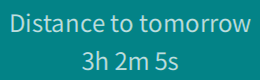
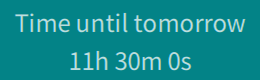
refactor(widget): inline countdown settings dialog, drop Action wrapper

Changed region(s): [[0.0308, 0.15, 0.9846, 0.425], [0.4308, 0.65, 0.7385, 0.9], [0.2462, 0.65, 0.3692, 0.875]]

diff --git a/translations/countdown/ru.ts b/translations/countdown/ru.ts
@@ -4,7 +4,7 @@
 <context>
     <name>CountdownWidget</name>
     <message><source>Countdown</source><translation>Обратный отсчёт</translation></message>
-    <message><source>Settings</source><translation>Настройки</translation></message>
+    <message><source>Settings...</source><translation>Настройки...</translation></message>
     <message><source>Time until target</source><translation>Время до цели</translation></message>
     <message><source>Not set</source><translation>Не задано</translation></message>
     <message><source>Time's up!</source><translation>Время вышло!</translation></message>
@@ -14,29 +14,25 @@
     <message><source>s</source><translation>с</translation></message>
 </context>
 <context>
-    <name>CountdownAction</name>
-    <message><source>Settings</source><translation>Настройки</translation></message>
-</context>
-<context>
     <name>CountdownSettings</name>
     <message><source>Countdown Settings</source><translation>Настройки обратного отсчёта</translation></message>
     <message><source>Profile</source><translation>Профиль</translation></message>
     <message><source>Profile Name</source><translation>Имя профиля</translation></message>
     <message><source>New Profile %1</source><translation>Новый профиль %1</translation></message>
-    <message><source>(No valid profile)</source><translation>(Нет действительного профиля)</translation></message>
+    <message><source>(No valid profile)</source><translation>(Нет допустимого профиля)</translation></message>
     <message><source> (unsaved)</source><translation> (не сохранено)</translation></message>
     <message><source>Font</source><translation>Шрифт</translation></message>
-    <message><source>Font Weight</source><translation>Насыщенность</translation></message>
+    <message><source>Font Weight</source><translation>Насыщенность шрифта</translation></message>
     <message><source>Line Height</source><translation>Высота строки</translation></message>
     <message><source>Enable Outline</source><translation>Включить обводку</translation></message>
-    <message><source>Type to search fonts...</source><translation>Введите для поиска шрифтов...</translation></message>
+    <message><source>Type to search fonts...</source><translation>Начните вводить для поиска шрифтов...</translation></message>
     <message><source>Countdown Title</source><translation>Заголовок обратного отсчёта</translation></message>
     <message><source>Enter a title</source><translation>Введите заголовок</translation></message>
     <message><source>Target Date (Y-M-D)</source><translation>Целевая дата (Г-М-Д)</translation></message>
     <message><source>Target Time (H:M)</source><translation>Целевое время (Ч:М)</translation></message>
     <message><source>Title</source><translation>Заголовок</translation></message>
     <message><source>Countdown</source><translation>Обратный отсчёт</translation></message>
-    <message><source>Apply Current</source><translation>Применить текущий</translation></message>
+    <message><source>Apply Current</source><translation>Применить текущий профиль</translation></message>
     <message><source>Save All</source><translation>Сохранить все</translation></message>
     <message><source>Apply &amp;&amp; Close</source><translation>Применить и закрыть</translation></message>
     <message><source>Settings saved.</source><translation>Настройки сохранены.</translation></message>

diff --git a/translations/countdown/ja.ts b/translations/countdown/ja.ts
@@ -4,18 +4,14 @@
 <context>
     <name>CountdownWidget</name>
     <message><source>Countdown</source><translation>カウントダウン</translation></message>
-    <message><source>Settings</source><translation>設定</translation></message>
-    <message><source>Time until target</source><translation>目標まで</translation></message>
+    <message><source>Settings...</source><translation>設定...</translation></message>
+    <message><source>Time until target</source><translation>目標までの時間</translation></message>
     <message><source>Not set</source><translation>未設定</translation></message>
-    <message><source>Time's up!</source><translation>時間です！</translation></message>
+    <message><source>Time's up!</source><translation>時間切れ！</translation></message>
     <message><source>d</source><translation>日</translation></message>
     <message><source>h</source><translation>時間</translation></message>
     <message><source>m</source><translation>分</translation></message>
     <message><source>s</source><translation>秒</translation></message>
-</context>
-<context>
-    <name>CountdownAction</name>
-    <message><source>Settings</source><translation>設定</translation></message>
 </context>
 <context>
     <name>CountdownSettings</name>
@@ -26,20 +22,20 @@
     <message><source>(No valid profile)</source><translation>（有効なプロファイルなし）</translation></message>
     <message><source> (unsaved)</source><translation>（未保存）</translation></message>
     <message><source>Font</source><translation>フォント</translation></message>
-    <message><source>Font Weight</source><translation>ウェイト</translation></message>
+    <message><source>Font Weight</source><translation>フォントの太さ</translation></message>
     <message><source>Line Height</source><translation>行の高さ</translation></message>
-    <message><source>Enable Outline</source><translation>輪郭を有効化</translation></message>
-    <message><source>Type to search fonts...</source><translation>入力して検索...</translation></message>
+    <message><source>Enable Outline</source><translation>アウトラインを有効化</translation></message>
+    <message><source>Type to search fonts...</source><translation>入力してフォントを検索...</translation></message>
     <message><source>Countdown Title</source><translation>カウントダウンタイトル</translation></message>
     <message><source>Enter a title</source><translation>タイトルを入力</translation></message>
     <message><source>Target Date (Y-M-D)</source><translation>目標日付（年-月-日）</translation></message>
     <message><source>Target Time (H:M)</source><translation>目標時刻（時:分）</translation></message>
     <message><source>Title</source><translation>タイトル</translation></message>
     <message><source>Countdown</source><translation>カウントダウン</translation></message>
-    <message><source>Apply Current</source><translation>現在に適用</translation></message>
+    <message><source>Apply Current</source><translation>現在のプロファイルを適用</translation></message>
     <message><source>Save All</source><translation>すべて保存</translation></message>
     <message><source>Apply &amp;&amp; Close</source><translation>適用して閉じる</translation></message>
     <message><source>Settings saved.</source><translation>設定を保存しました。</translation></message>
-    <message><source>Time until tomorrow</source><translation>明日まで</translation></message>
+    <message><source>Time until tomorrow</source><translation>明日までの時間</translation></message>
 </context>
 </TS>

diff --git a/translations/countdown/tr.ts b/translations/countdown/tr.ts
@@ -4,7 +4,7 @@
 <context>
     <name>CountdownWidget</name>
     <message><source>Countdown</source><translation>Geri sayım</translation></message>
-    <message><source>Settings</source><translation>Ayarlar</translation></message>
+    <message><source>Settings...</source><translation>Ayarlar...</translation></message>
     <message><source>Time until target</source><translation>Hedefe kalan süre</translation></message>
     <message><source>Not set</source><translation>Ayarlanmadı</translation></message>
     <message><source>Time's up!</source><translation>Süre doldu!</translation></message>
@@ -12,10 +12,6 @@
     <message><source>h</source><translation>sa</translation></message>
     <message><source>m</source><translation>dk</translation></message>
     <message><source>s</source><translation>sn</translation></message>
-</context>
-<context>
-    <name>CountdownAction</name>
-    <message><source>Settings</source><translation>Ayarlar</translation></message>
 </context>
 <context>
     <name>CountdownSettings</name>
@@ -26,9 +22,9 @@
     <message><source>(No valid profile)</source><translation>(Geçerli profil yok)</translation></message>
     <message><source> (unsaved)</source><translation> (kaydedilmedi)</translation></message>
     <message><source>Font</source><translation>Yazı tipi</translation></message>
-    <message><source>Font Weight</source><translation>Yazı kalınlığı</translation></message>
+    <message><source>Font Weight</source><translation>Yazı tipi kalınlığı</translation></message>
     <message><source>Line Height</source><translation>Satır yüksekliği</translation></message>
-    <message><source>Enable Outline</source><translation>Kenarlığı etkinleştir</translation></message>
+    <message><source>Enable Outline</source><translation>Konturu etkinleştir</translation></message>
     <message><source>Type to search fonts...</source><translation>Yazı tiplerini aramak için yazın...</translation></message>
     <message><source>Countdown Title</source><translation>Geri sayım başlığı</translation></message>
     <message><source>Enter a title</source><translation>Başlık girin</translation></message>
@@ -36,7 +32,7 @@
     <message><source>Target Time (H:M)</source><translation>Hedef saat (S:D)</translation></message>
     <message><source>Title</source><translation>Başlık</translation></message>
     <message><source>Countdown</source><translation>Geri sayım</translation></message>
-    <message><source>Apply Current</source><translation>Mevcutu uygula</translation></message>
+    <message><source>Apply Current</source><translation>Mevcut profili uygula</translation></message>
     <message><source>Save All</source><translation>Tümünü kaydet</translation></message>
     <message><source>Apply &amp;&amp; Close</source><translation>Uygula ve kapat</translation></message>
     <message><source>Settings saved.</source><translation>Ayarlar kaydedildi.</translation></message>

diff --git a/translations/countdown/es.ts b/translations/countdown/es.ts
@@ -4,18 +4,14 @@
 <context>
     <name>CountdownWidget</name>
     <message><source>Countdown</source><translation>Cuenta atrás</translation></message>
-    <message><source>Settings</source><translation>Ajustes</translation></message>
+    <message><source>Settings...</source><translation>Ajustes...</translation></message>
     <message><source>Time until target</source><translation>Tiempo hasta el objetivo</translation></message>
     <message><source>Not set</source><translation>Sin definir</translation></message>
-    <message><source>Time's up!</source><translation>¡Tiempo agotado!</translation></message>
+    <message><source>Time's up!</source><translation>¡Se acabó el tiempo!</translation></message>
     <message><source>d</source><translation>d</translation></message>
     <message><source>h</source><translation>h</translation></message>
     <message><source>m</source><translation>min</translation></message>
     <message><source>s</source><translation>s</translation></message>
-</context>
-<context>
-    <name>CountdownAction</name>
-    <message><source>Settings</source><translation>Ajustes</translation></message>
 </context>
 <context>
     <name>CountdownSettings</name>
@@ -26,7 +22,7 @@
     <message><source>(No valid profile)</source><translation>(Sin perfil válido)</translation></message>
     <message><source> (unsaved)</source><translation> (sin guardar)</translation></message>
     <message><source>Font</source><translation>Fuente</translation></message>
-    <message><source>Font Weight</source><translation>Grosor</translation></message>
+    <message><source>Font Weight</source><translation>Grosor de fuente</translation></message>
     <message><source>Line Height</source><translation>Altura de línea</translation></message>
     <message><source>Enable Outline</source><translation>Activar contorno</translation></message>
     <message><source>Type to search fonts...</source><translation>Escriba para buscar fuentes...</translation></message>
@@ -36,7 +32,7 @@
     <message><source>Target Time (H:M)</source><translation>Hora objetivo (H:M)</translation></message>
     <message><source>Title</source><translation>Título</translation></message>
     <message><source>Countdown</source><translation>Cuenta atrás</translation></message>
-    <message><source>Apply Current</source><translation>Aplicar actual</translation></message>
+    <message><source>Apply Current</source><translation>Aplicar perfil actual</translation></message>
     <message><source>Save All</source><translation>Guardar todo</translation></message>
     <message><source>Apply &amp;&amp; Close</source><translation>Aplicar y cerrar</translation></message>
     <message><source>Settings saved.</source><translation>Ajustes guardados.</translation></message>

diff --git a/com.warrenzy.widget.countdown/qml/CountdownWidget.qml b/com.warrenzy.widget.countdown/qml/CountdownWidget.qml
@@ -14,12 +14,10 @@ T.Widget {
     implicitWidth: 260
     implicitHeight: 80
 
-    action: CountdownAction { widgetRef: widget }
-
     menu: Menu {
         MenuItem {
-            text: qsTr("Settings")
-            onTriggered: widget.action.execute()
+            text: qsTr("Settings...")
+            onTriggered: settingsDialog.active = true
         }
     }
 
@@ -57,11 +55,6 @@ T.Widget {
         onTriggered: widget.refreshCountdown()
     }
 
-    // Pull this widget's entry from the shared store. The binding is
-    // sticky: a stale id is kept as-is and the widget shows the empty
-    // state, so a delete in another window does not silently rebind
-    // this instance elsewhere. Only an unbound instance adopts the
-    // first profile.
     function refreshProfile() {
         var cfg = Cfg.loadConfig();
         var p = null;
@@ -80,8 +73,6 @@ T.Widget {
         }
     }
 
-    // Recompute text and schedule the next wake-up at the moment the
-    // last visible digit will change.
     function refreshCountdown() {
         var p = widget.profile;
         var targetMs = (p && p.targetDate)
@@ -143,7 +134,6 @@ T.Widget {
         (widget.profile && typeof widget.profile.lineHeight === "number")
             ? widget.profile.lineHeight : Cfg.DEFAULT_LINE_HEIGHT
 
-    // Stroke only drawn when explicitly enabled and color is set.
     readonly property string effectiveStrokeColor: {
         if (!widget.profile) return "";
         if (!widget.profile.strokeEnabled) return "";
@@ -199,6 +189,15 @@ T.Widget {
                  : Cfg.DEFAULT_VALUE_COLOR
             style: widget.effectiveStrokeColor ? Text.Outline : Text.Normal
             styleColor: widget.effectiveStrokeColor || "transparent"
+        }
+    }
+
+    Loader {
+        id: settingsDialog
+        active: false
+        sourceComponent: CountdownSettings {
+            targetWidget: widget
+            onClosing: settingsDialog.active = false
         }
     }
 }

diff --git a/translations/countdown/zh_TW.ts b/translations/countdown/zh_TW.ts
@@ -4,7 +4,7 @@
 <context>
     <name>CountdownWidget</name>
     <message><source>Countdown</source><translation>倒計時</translation></message>
-    <message><source>Settings</source><translation>設定</translation></message>
+    <message><source>Settings...</source><translation>設定...</translation></message>
     <message><source>Time until target</source><translation>距離目標還有</translation></message>
     <message><source>Not set</source><translation>未設定目標</translation></message>
     <message><source>Time's up!</source><translation>時間到！</translation></message>
@@ -12,10 +12,6 @@
     <message><source>h</source><translation>小時</translation></message>
     <message><source>m</source><translation>分鐘</translation></message>
     <message><source>s</source><translation>秒</translation></message>
-</context>
-<context>
-    <name>CountdownAction</name>
-    <message><source>Settings</source><translation>設定</translation></message>
 </context>
 <context>
     <name>CountdownSettings</name>
@@ -36,7 +32,7 @@
     <message><source>Target Time (H:M)</source><translation>目標時間（時:分）</translation></message>
     <message><source>Title</source><translation>標題</translation></message>
     <message><source>Countdown</source><translation>倒計時</translation></message>
-    <message><source>Apply Current</source><translation>套用當前</translation></message>
+    <message><source>Apply Current</source><translation>套用目前設定檔</translation></message>
     <message><source>Save All</source><translation>儲存全部</translation></message>
     <message><source>Apply &amp;&amp; Close</source><translation>套用並關閉</translation></message>
     <message><source>Settings saved.</source><translation>設定已儲存。</translation></message>

diff --git a/translations/countdown/zh_CN.ts b/translations/countdown/zh_CN.ts
@@ -4,7 +4,7 @@
 <context>
     <name>CountdownWidget</name>
     <message><source>Countdown</source><translation>倒计时</translation></message>
-    <message><source>Settings</source><translation>设置</translation></message>
+    <message><source>Settings...</source><translation>设置...</translation></message>
     <message><source>Time until target</source><translation>距离目标还有</translation></message>
     <message><source>Not set</source><translation>未设置目标</translation></message>
     <message><source>Time's up!</source><translation>时间到！</translation></message>
@@ -12,10 +12,6 @@
     <message><source>h</source><translation>小时</translation></message>
     <message><source>m</source><translation>分钟</translation></message>
     <message><source>s</source><translation>秒</translation></message>
-</context>
-<context>
-    <name>CountdownAction</name>
-    <message><source>Settings</source><translation>设置</translation></message>
 </context>
 <context>
     <name>CountdownSettings</name>
@@ -36,7 +32,7 @@
     <message><source>Target Time (H:M)</source><translation>目标时间（时:分）</translation></message>
     <message><source>Title</source><translation>标题</translation></message>
     <message><source>Countdown</source><translation>倒计时</translation></message>
-    <message><source>Apply Current</source><translation>应用当前</translation></message>
+    <message><source>Apply Current</source><translation>应用当前配置</translation></message>
     <message><source>Save All</source><translation>保存全部</translation></message>
     <message><source>Apply &amp;&amp; Close</source><translation>应用并关闭</translation></message>
     <message><source>Settings saved.</source><translation>设置已保存。</translation></message>

diff --git a/com.warrenzy.widget.countdown/qml/CountdownSettings.qml b/com.warrenzy.widget.countdown/qml/CountdownSettings.qml
@@ -12,7 +12,6 @@ NVG.Window {
     id: settingsWindow
 
     property var targetWidget: null
-    property var ownerAction: null
     property int hubSubscriptionId: -1
 
     title: qsTr("Countdown Settings")
@@ -95,10 +94,7 @@ NVG.Window {
     Component.onDestruction: {
         if (hubSubscriptionId >= 0)
             Hub.unsubscribe(hubSubscriptionId);
-        if (ownerAction && ownerAction.settingsWindow === settingsWindow)
-            ownerAction.settingsWindow = null;
     }
-    onClosing: destroy()
 
     // ---- Hub ----
 
